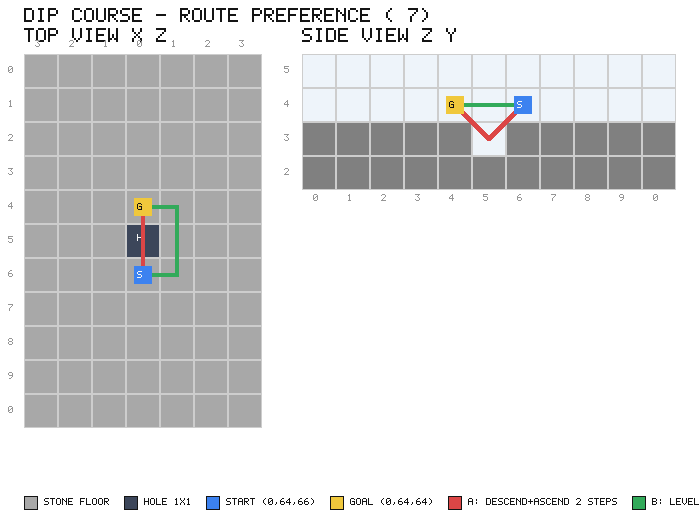
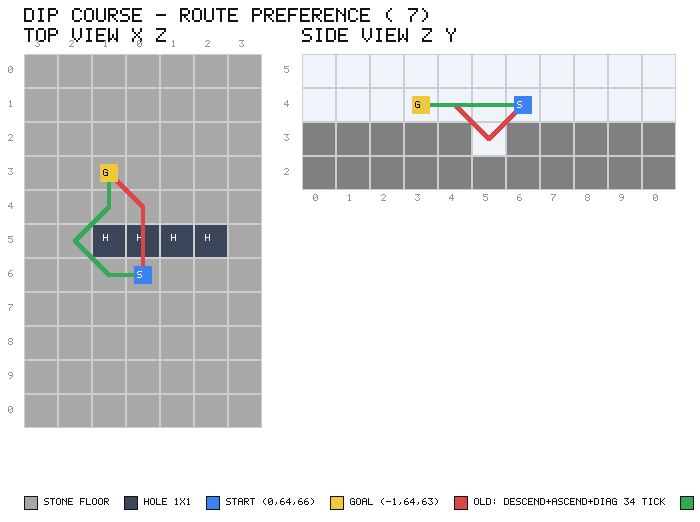
fix(test): 修正 Q7 验收场景（对角切角教训 D-039）+ 撤回 Q3 相位改动（D-038）
- dip_course 改为 x=-1..2/z=65 的 1 格深坑、目标 (-1,64,63)：
  旧模型 DESCEND+ASCEND+DIAGONAL（≈34 tick）→ 标定后 TRAVERSE+DIAGONAL+DIAGONAL+TRAVERSE（≈28 tick）
- 新增 tools/simulate-scene-plan.py（场景设计穷举校验，自校验与真实日志一致）
- D-038 撤回：Forge 源码证明 START/END 等价（都在 physics(N-1) 之后、physics(N) 之前），实测无差异
- 保留 PathSession segment_done 的 ticks= 遥测

diff --git a/tools/simulate-scene-plan.py b/tools/simulate-scene-plan.py
@@ -1,0 +1,115 @@
+#!/usr/bin/env python3
+"""场景设计辅助：在本地用简化模型推演"规划器会选哪条路线"。
+
+⚠ 这不是规划器真相，只是**场景设计工具**：它复刻 Alice 的 Movement 集合
+（TRAVERSE / DIAGONAL / ASCEND / DESCEND + D-024 过冲检查）与成本模型，
+用于在让用户跑客户端之前，先确认"这个验收场景能不能判别出路线差异"。
+
+已知校验：用旧版 1x1 坑场景推演得到 `cost=2.83 first=DIAGONAL`，
+与客户端 `latest.log` 的 `[DipRoute] status=REACHED first=DIAGONAL movements=2 cost=2.83` 完全一致。
+
+用法：python3 tools/simulate-scene-plan.py
+"""
+
+import heapq
+import math
+
+# 实测段耗时（tick）：R3 电池证据 2026-09-08
+MEASURED_TICKS = {'TRAVERSE': 6, 'DIAGONAL': 8, 'ASCEND': 10, 'DESCEND': 16}
+# 成本模型：旧 = 当前 CostModel；新 = Q7 按实测标定
+COST_OLD = (1.0, math.sqrt(2), 2.0, 1.0)          # traverse / diagonal / ascend / descend
+COST_NEW = (1.0, 1.33, 1.67, 2.67)
+
+CARD = [(1, 0), (-1, 0), (0, 1), (0, -1)]
+DIAG = [(1, 1), (1, -1), (-1, 1), (-1, -1)]
+
+
+def build_feet(floor_x=range(-3, 4), floor_z=range(60, 71), floor_y=63,
+               pit=(), pit_depth=1):
+    """返回可站脚位集合。pit 为 (x,z) 集合，坑内支撑下沉 pit_depth。"""
+    feet = set()
+    for x in floor_x:
+        for z in floor_z:
+            if (x, z) in pit:
+                feet.add((x, floor_y - pit_depth + 1, z))
+            else:
+                feet.add((x, floor_y + 1, z))
+    return feet
+
+
+def walkable(feet, pos):
+    if pos in feet:
+        return True
+    x, y, z = pos
+    return not any(f[0] == x and f[2] == z and f[1] - 1 == y for f in feet)
+
+
+def moves(feet, pos, costs):
+    c_t, c_d, c_a, c_s = costs
+    x, y, z = pos
+    out = []
+    for dx, dz in CARD:                                   # 同层四向
+        to = (x + dx, y, z + dz)
+        if to in feet and walkable(feet, to) and walkable(feet, (x + dx, y + 1, z + dz)):
+            out.append(('TRAVERSE', to, c_t))
+    for dx, dz in DIAG:                                   # 同层对角（两侧必须可通行）
+        to = (x + dx, y, z + dz)
+        if (to in feet and walkable(feet, (x + dx, y, z)) and walkable(feet, (x, y, z + dz))
+                and walkable(feet, to) and walkable(feet, (x + dx, y + 1, z + dz))):
+            out.append(('DIAGONAL', to, c_d))
+    for dx, dz in CARD:                                   # 上升（基数为轴，dy=+1）
+        to = (x + dx, y + 1, z + dz)
+        if (to in feet and walkable(feet, to) and walkable(feet, (x + dx, y + 2, z + dz))
+                and walkable(feet, (x + dx, y + 1, z)) and walkable(feet, (x, y + 2, z))):
+            out.append(('ASCEND', to, c_a))
+    for dx, dz in CARD:                                   # 下降（基数为轴，dy=-1）+ D-024 过冲检查
+        to = (x + dx, y - 1, z + dz)
+        if not (to in feet and walkable(feet, to) and walkable(feet, (x + dx, y, z + dz))):
+            continue
+        beyond = (to[0] + dx, to[1], to[2] + dz)
+        if walkable(feet, beyond):
+            if not (beyond in feet or (beyond[0], beyond[1] - 1, beyond[2]) in feet):
+                continue
+        out.append(('DESCEND', to, c_s))
+    return out
+
+
+def astar(feet, start, goal, costs):
+    """与 Alice A* 同形：h = 水平欧氏 + |dy|（可采纳性由成本模型决定，见审计 §7.7）。"""
+    def h(p):
+        return math.sqrt((p[0] - goal[0]) ** 2 + (p[2] - goal[2]) ** 2) + abs(p[1] - goal[1])
+
+    openq = [(h(start), 0.0, start, [])]
+    seen = set()
+    while openq:
+        _, g, pos, path = heapq.heappop(openq)
+        if pos in seen:
+            continue
+        seen.add(pos)
+        if pos == goal:
+            return g, path
+        for typ, to, c in moves(feet, pos, costs):
+            if to in seen:
+                continue
+            heapq.heappush(openq, (g + c + h(to), g + c, to, path + [typ]))
+    return None, None
+
+
+def report(name, feet, start, goal):
+    print(f"\n== {name} ==  start={start} goal={goal}")
+    for label, costs in (("旧模型 (1.00/1.41/2.00/1.00)", COST_OLD),
+                         ("标定后 (1.00/1.33/1.67/2.67)", COST_NEW)):
+        g, path = astar(feet, start, goal, costs)
+        if g is None:
+            print(f"  {label}: UNREACHABLE")
+            continue
+        ticks = sum(MEASURED_TICKS[t] for t in path)
+        print(f"  {label}: cost={g:5.2f} 实测≈{ticks:3d} tick  {'+'.join(path)}")
+
+
+if __name__ == '__main__':
+    # Q7 验收场景 dip_course：x=-1..2、z=65 的 1 格深坑
+    pit = {(x, 65) for x in range(-1, 3)}
+    report("dip_course", build_feet(pit=pit), (0, 64, 66), (-1, 64, 63))
+    # 旧版 1x1 坑场景（已废弃，保留作为工具自校验）
+    report("自校验：旧 1x1 坑", build_feet(pit={(0, 65)}), (0, 64, 66), (0, 64, 64))

diff --git a/tools/render-scene-preview.py b/tools/render-scene-preview.py
@@ -242,11 +242,11 @@ def dip_course():
     xs = list(range(-3, 4))            # -3..3
     zs = list(range(60, 71))           # 60..70
     floor_y = 63                       # 支撑层（脚位 64）
-    hole = {(0, 65)}                   # 1x1 深坑（支撑层被挖掉，下方 y=62 是石头）
+    hole = {(x, 65) for x in range(-1, 3)}   # x=-1..2、z=65 的 1 格深坑
     start = (0, 66)
-    goal = (0, 64)
-    route_a = [(0, 66), (0, 65), (0, 64)]                       # 下降 + 上升（2 步）
-    route_b = [(0, 66), (1, 66), (1, 65), (1, 64), (0, 64)]     # 同层绕路（4 步）
+    goal = (-1, 63)
+    route_a = [(0, 66), (0, 65), (0, 64), (-1, 63)]              # 旧模型：下降+上升+对角
+    route_b = [(0, 66), (-1, 66), (-2, 65), (-1, 64), (-1, 63)]  # 标定后：西侧绕路
 
     w = MARGIN * 2 + len(xs) * CELL + 40 + len(zs) * CELL
     h = MARGIN * 2 + 40 + len(zs) * CELL + 60
@@ -256,12 +256,12 @@ def dip_course():
     side_x = MARGIN + len(xs) * CELL + 40
     ys = [62, 63, 64, 65]
     draw_side_view(c, side_x, MARGIN + 30, zs, ys, floor_y, hole,
-                   (66, 64), (64, 64), [(66, 64), (65, 63), (64, 64)],
-                   [(66, 64), (66, 64), (65, 64), (64, 64), (64, 64)])
+                   (66, 64), (63, 64), [(66, 64), (65, 63), (64, 64), (63, 64)],
+                   [(66, 64), (66, 64), (65, 64), (64, 64), (63, 64)])
     legend(c, MARGIN, h - 26, [
         (STONE_TOP, "STONE FLOOR"), (HOLE, "HOLE 1X1"),
-        (START, "START (0,64,66)"), (GOAL, "GOAL (0,64,64)"),
-        (ROUTE_A, "A: DESCEND+ASCEND 2 STEPS"), (ROUTE_B, "B: LEVEL DETOUR 4 STEPS"),
+        (START, "START (0,64,66)"), (GOAL, "GOAL (-1,64,63)"),
+        (ROUTE_A, "OLD: DESCEND+ASCEND+DIAG 34 TICK"), (ROUTE_B, "NEW: WEST DETOUR 28 TICK"),
     ])
     return c
 

diff --git a/src/main/java/com/dddgn/alice/item/PathingDipRouteItem.java b/src/main/java/com/dddgn/alice/item/PathingDipRouteItem.java
@@ -21,19 +21,19 @@ import net.minecraft.world.level.Level;
 /**
  * Q7 验收：路线偏好检查器（{@code alice:pathing_dip_route}）：场景专属，右键即启动。
  *
- * <p>场景：起点到目标之间有一个 1 格深坑。两条候选路线：
+ * <p>场景：x=-1..2、z=65 是一条 1 格深的坑。两条候选路线（由本地模拟器穷举验证，
+ * 并与真实规划器在旧场景上的输出一致）：
  * <ul>
- *   <li>路线 A：下降进坑再上升出来（2 步，实测约 26 tick）；</li>
- *   <li>路线 B：同层绕 4 格（4 步，实测约 24 tick）。</li>
+ *   <li>旧模型：`DESCEND + ASCEND + DIAGONAL`（下降进坑再绕），cost=4.41，实测≈34 tick；</li>
+ *   <li>标定后：`TRAVERSE + DIAGONAL + DIAGONAL + TRAVERSE`（西侧绕路），cost=4.66，实测≈28 tick。</li>
  * </ul>
- * 成本模型按真实耗时标定后，规划器应选**路线 B**（`first=TRAVERSE movements=4`）。
- * 标定前选路线 A（`first=DESCEND movements=2`）——这就是本次验收的判别信号。
+ * 所以标定后规划器应改选**更快的绕路**（`first=TRAVERSE`），这就是本次验收的判别信号。
  */
 public class PathingDipRouteItem extends Item {
 
     /** 与 {@code dip_course.mcfunction} 一致。 */
     public static final BlockPos COURSE_START_FOOT = new BlockPos(0, 64, 66);
-    public static final BlockPos COURSE_GOAL_FOOT = new BlockPos(0, 64, 64);
+    public static final BlockPos COURSE_GOAL_FOOT = new BlockPos(-1, 64, 63);
 
     public PathingDipRouteItem(Properties properties) {
         super(properties);

diff --git a/src/main/java/com/dddgn/alice/bot/BotManager.java b/src/main/java/com/dddgn/alice/bot/BotManager.java
@@ -546,16 +546,17 @@ public static void assignFollow(BotPlayer bot, ServerPlayer target) {
     }
 
     /**
-     * 任务/执行器驱动相位（D-038）。
+     * 任务/执行器驱动相位：保持 {@link TickEvent.Phase#END}。
      *
-     * <p>用 {@link TickEvent.Phase#START} 而不是 {@code END}：BotPlayer.tick() 的物理在实体 tick 内执行，
-     * 因此 START(N) 设定的输入会被**同一 tick** 的物理消费，而 END(N-1) 的输入要到 tick N 才生效
-     * （多 1 tick 延迟）。Baritone 的 InputOverrideHandler 同样在实体 tick 之前设置输入。
-     * 对齐后每个 Movement 少 1 tick 延迟，Baritone 的距离/速度门控阈值才可移植。
+     * <p>D-038 曾改为 {@code START} 以求"输入与物理同 tick"，但 Forge 源码证明两者等价：
+     * {@code onPreServerTick} 在 {@code tickCount++/tickChildren} 之前，{@code onPostServerTick}
+     * 在全部实体 tick 之后——**都位于 physics(N-1) 之后、physics(N) 之前**，观察到的状态与
+     * 输入生效的 tick 完全相同。1 tick 延迟是"先观察后动作"的离散控制回路固有属性（Baritone 亦然）。
+     * 详见 D-038（已撤回）。
      */
     @SubscribeEvent
     public static void onServerTick(TickEvent.ServerTickEvent event) {
-        if (event.phase != TickEvent.Phase.START) {
+        if (event.phase != TickEvent.Phase.END) {
             return;
         }
         TransferLedgerData.get(event.getServer()).expireSuspensions(event.getServer().getTickCount(),

diff --git a/docs/AI_DECISIONS.md b/docs/AI_DECISIONS.md
@@ -416,9 +416,18 @@
 - 未改：成本模型 / 启发式 / 执行会话契约（属后续刀次，见审计 §4）。
 - 验证等级：`IMPLEMENTED` + `COMPILES`；客户端待测。
 
-## D-038：任务/执行器驱动相位对齐 Baritone（END → START）
+## D-038：任务/执行器驱动相位对齐 Baritone（END → START）——**已撤回（前提不成立）**
 
-- 状态：已实施，待客户端验证（用户 2026-09-09 授权尝试更换驱动顺序）
+- 状态：**已撤回**（2026-09-09；用户授权尝试后实测无差异，且 Forge 源码证明前提错误）
+- 撤回依据（Forge 1.20.1-47.4.10 `patches/net/minecraft/server/MinecraftServer.java.patch:93-107`）：
+  `onPreServerTick`（START）在 `++tickCount` 与 `tickChildren` 之前触发，`onPostServerTick`（END）在全部实体 tick 之后触发。
+  两者都位于 **physics(N-1) 之后、physics(N) 之前**：观察到的状态与输入生效的 tick 完全相同 → **相位改动对延迟是 no-op**。
+- 实测佐证（2026-09-09 客户端，改动生效时）：`pathing_battery` 8/8 PASS；`pathing_placer` 93→88 tick、
+  `pathing_disturber` 93→93 tick、`pathing_breaker` 70 tick，无系统性变化。
+- 结论：**1 tick 控制延迟是"先观察后动作"的离散回路固有属性，Baritone 同样存在**（其 `InputOverrideHandler`
+  读到的也是上一次 `aiStep` 后的位置）。因此无需对齐，也不需要为此重构 tick 顺序。
+- 保留：`PathSession.segment_done` 的 `ticks=` 遥测（标定/回归对比用）。
+- 历史描述（撤回前）：
 - 事实：`BotManager.onServerTick`（原 `:548-559`）在 `TickEvent.Phase.END` 驱动
   任务 → `PathSession` → 各执行器 → `bot.controller()` 输入；而 `BotPlayer.tick()` 的物理
   （`aiStep()`）在实体 tick 内执行 → `END(N-1)` 设定的输入要等 **tick N** 才被消费 = **1 tick 延迟**。
@@ -431,3 +440,17 @@
   → 必须重跑 `pathing_battery` / `pathing_session` / `pathing_breaker` / `pathing_placer` / `pathing_disturber`。
 - 观测手段：`PathSession` 的 `segment_done` 日志新增 `ticks=` 字段（永久遥测，用于 Q3/Q7 标定与回归对比）。
 - 回退：把 `Phase.START` 改回 `Phase.END`。
+
+## D-039：验收场景必须先用模拟器验证"能否判别"（Q7 dip_course 教训）
+
+- 状态：当前生效（流程约束，2026-09-09）
+- 教训：Q7 首个验收场景用 **1×1 深坑**，期望"旧模型走下降、新模型走绕路"。实测
+  `[DipRoute] first=DIAGONAL movements=2 cost=2.83`——规划器用**两个对角从坑角绕过去**了，
+  比下降（3.0）和绕路（4.0）都便宜，因此该场景**根本不触发"下降 vs 绕路"的取舍**，无法判别。
+- 流程约束：设计验收场景时，必须先用 `tools/simulate-scene-plan.py`（复刻 Alice 的 Movement 集合 +
+  D-024 过冲检查 + 成本模型）穷举验证：① 旧模型与新模型选出的路线不同；② 新模型选出的路线**实测更快**。
+  工具自校验：对旧 1×1 坑场景推演得到 `cost=2.83 first=DIAGONAL`，与客户端日志完全一致。
+- 现行场景（`dip_course`）：坑 x=-1..2、z=65（1 格深），起点 `(0,64,66)`，目标 `(-1,64,63)`。
+  旧模型 `DESCEND+ASCEND+DIAGONAL`（cost 4.41，≈34 tick）；标定后 `TRAVERSE+DIAGONAL+DIAGONAL+TRAVERSE`
+  （cost 4.66，≈28 tick）→ 翻转且更快 6 tick。
+

diff --git a/docs/AI_TEST_MATRIX.md b/docs/AI_TEST_MATRIX.md
@@ -53,7 +53,7 @@ CODE_REVIEW -> COMPILES -> SERVER_LOG -> WINDOWS_CLIENT -> USER_ACCEPTED
 | R4 自愈（扰动） | `alice:pathing_disturber` + `/function alice_test:place_course` | 普通右键（第 30 tick 起把 bot 平移 1 格） | bot 被位移后自行恢复、任务有终态、不空跳 | `WINDOWS_CLIENT`（用户 2026-09-09 通过）；修复前曾空跳 17 次不终止（D-035） |
 | R5 破坏通行 | `alice:pathing_breaker` + `/function alice_test:break_course` | 普通右键 | 破坏进度/工具选择/直连 2 格语义、终态 | `USER_ACCEPTED`；证据见 `.alice-supervision/client-tests/pathing-r5-break-20260909/` |
 | R5 放置台阶 | `alice:pathing_placer` + `/function alice_test:place_course` | 普通右键 | 缺支撑时放置台阶后通行、终态 | `USER_ACCEPTED`；证据见 `.alice-supervision/client-tests/pathing-r5-place-20260909/` |
-| 路线偏好（Q7 验收） | `alice:pathing_dip_route` + `/function alice_test:dip_course` | 普通右键 | 聊天/日志 `first=TRAVERSE movements=4`（成本按实测标定后）；`first=DESCEND movements=2` 为标定前基线 | 待测（先采基线，Q7 落地后复测） |
+| 路线偏好（Q7 验收） | `alice:pathing_dip_route` + `/function alice_test:dip_course` | 普通右键 | 标定前基线 `first=DESCEND movements=3 cost=4.41`（≈34 tick）；标定后应为 `first=TRAVERSE movements=4 cost=4.66`（≈28 tick） | 待测（场景已用 `tools/simulate-scene-plan.py` 穷举校验） |
 | 流体屏障（内核对齐 D-037） | `alice:pathing_fluid_guard` + `/function alice_test:fluid_course`（充水墙）或 `alice_test:lava_course`（封闭岩浆池） | 普通右键 | 聊天/日志 `status=UNREACHABLE`（拒绝把含流体方块当可挖阻挡物）；`REACHED` 即缺陷；岩浆场景另看 bot 是否朝岩浆移动 | 待测（第一刀对齐验证项） |
 | Movement 实验 5 场景 D 动态阻挡 | `/function alice_test:movement_d` + `alice:movement_dynamic_block_tester` | 普通右键启动；行走中途自动在 `(5,64,20)` 放置封闭横向石墙；Shift+右键清理 | 验证动态障碍、实际停留位置、失败语义和输入清理；不自动重规划 | `USER_ACCEPTED`：Bot 停在墙前，`FAILED/movement_timeout_WalkMovement`，超时分支记录 `controller_stop_movement`；独立 `BLOCKED_DYNAMIC` 分类码尚未实现；证据见 `.alice-supervision/client-tests/movement-physics-experiment-5-20260906/evidence/` |
 | Movement 实验 6A 动态阻挡分类 | `/function alice_test:movement_e` + `alice:movement_block_reason_tester` | 执行中在 E 场景 x=5 放置封闭横向方块屏障 | 仅有新方块碰撞体与 Bot 碰撞箱相交且无进展时报告 `BLOCKED_DYNAMIC`；记录障碍/阶段/noProgress 并清理输入 | `USER_ACCEPTED`：`FAILED/movement_blocked_dynamic_WalkMovement`，`failureCode=BLOCKED_DYNAMIC`，`failurePhase=EXECUTING_MOVEMENT`，实际脚位 `4,64,40`，`onGround=true`，证据见 `.alice-supervision/client-tests/movement-physics-experiment-6a-20260906/evidence/` |

diff --git a/docs/AI_PROJECT_STATE.md b/docs/AI_PROJECT_STATE.md
@@ -22,7 +22,7 @@
 - Baritone 对照审计已完成：`docs/R2C_BARITONE_AUDIT.md`；
 - 已决策：D-024（落差红线 + 楼梯细化）、D-025（台阶 0.6 对齐真人）、D-026（合法位置集 + 统一完成契约）、D-027（分段完成容差）、D-028（R3→R4 顺序）、D-035（段计时修复 + 段内漂移检测）。
 
-下一步（2026-09-09）：**内核对齐路线（D-036）已启动**。Q3 相位对齐已实施（D-038：驱动改 `Phase.START`，`segment_done` 增加 `ticks=` 遥测），待客户端全量回归；Q7 验收场景已就绪（`alice_test:dip_course` + `alice:pathing_dip_route`，先采基线）。待决问题专项讨论见
+下一步（2026-09-09）：**内核对齐路线（D-036）已启动**。Q3 相位对齐**已撤回**（D-038：Forge 源码证明 START/END 等价，实测无差异）；`segment_done` 保留 `ticks=` 遥测；Q7 验收场景已就绪（`alice_test:dip_course` + `alice:pathing_dip_route`，先采基线）。待决问题专项讨论见
 `docs/ALIGNMENT_OPEN_QUESTIONS.md`（Q1 一格红线可回收性 / Q3 控制相位 1 tick / Q4 replan 归属 / Q7 成本模型偏好）。四层审计完成
 （`docs/R4_BARITONE_ALIGNMENT_AUDIT.md`，64 项对照：39 未登记偏离 / 13 缺失 / 7 已登记 / 4 对齐）；
 第一刀 P0 对齐已实施（D-037：流体不可挖 / 放置校验 InteractionResult / 危险方块扩表 /
